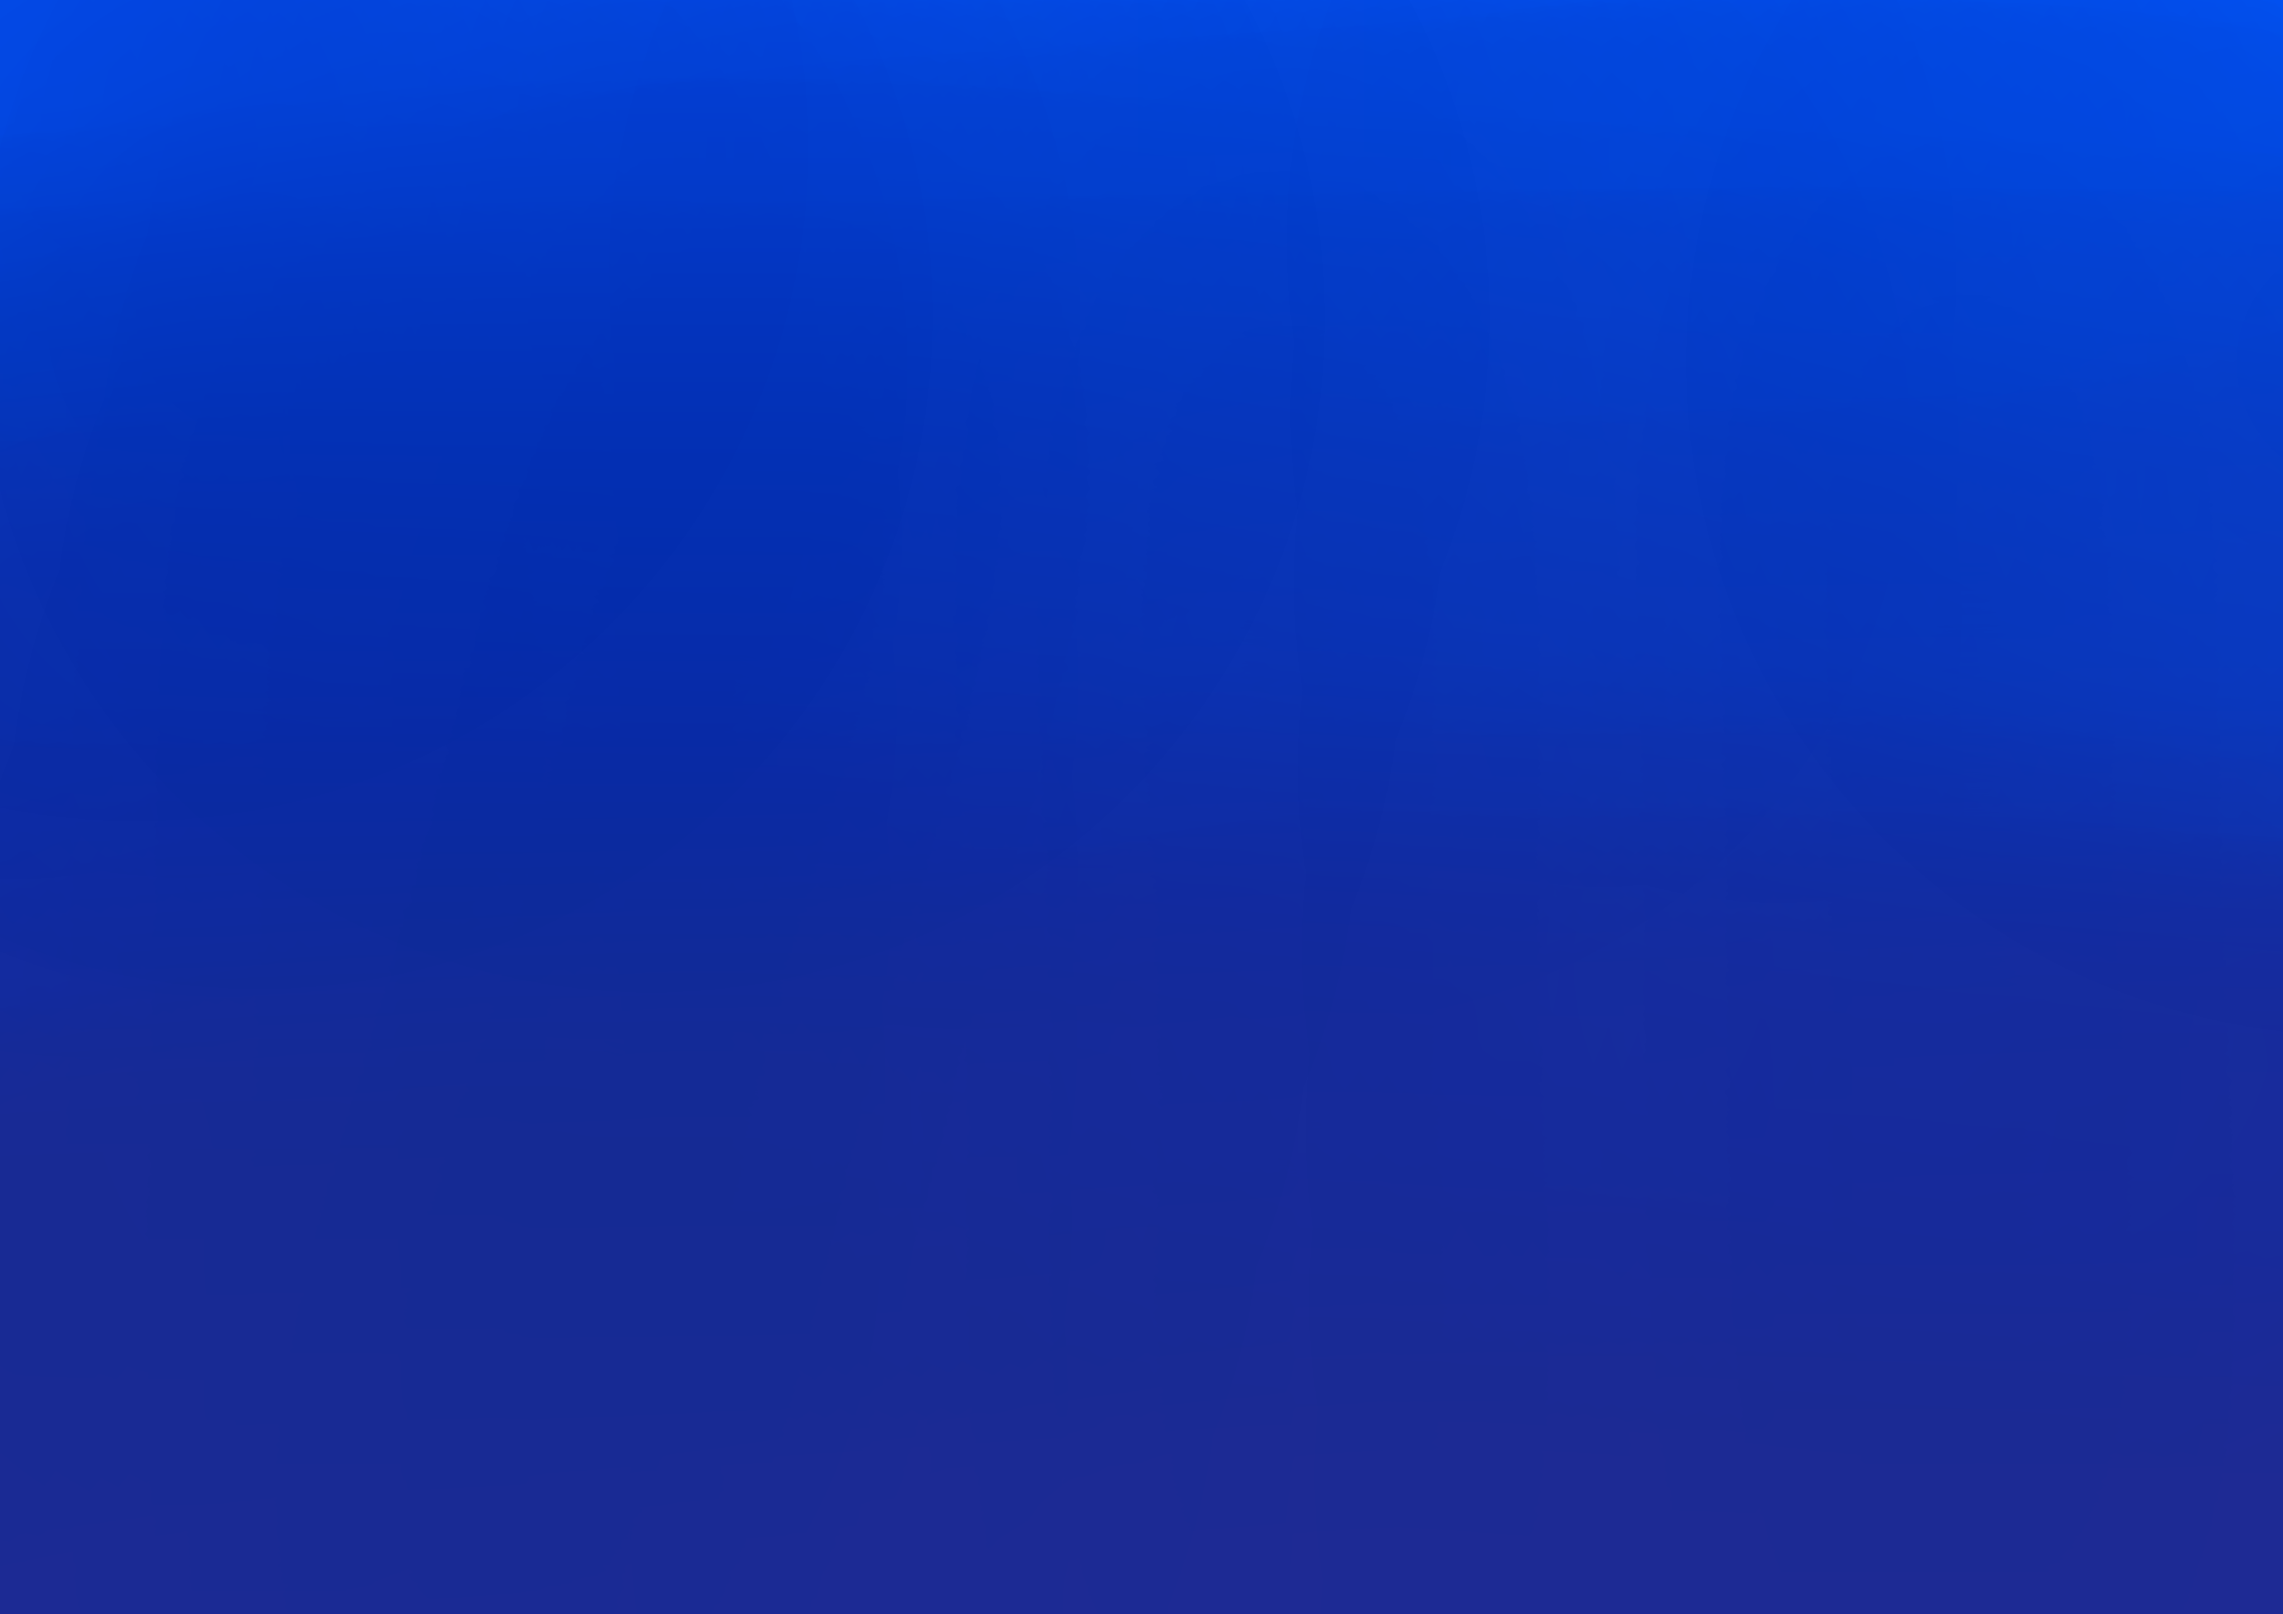
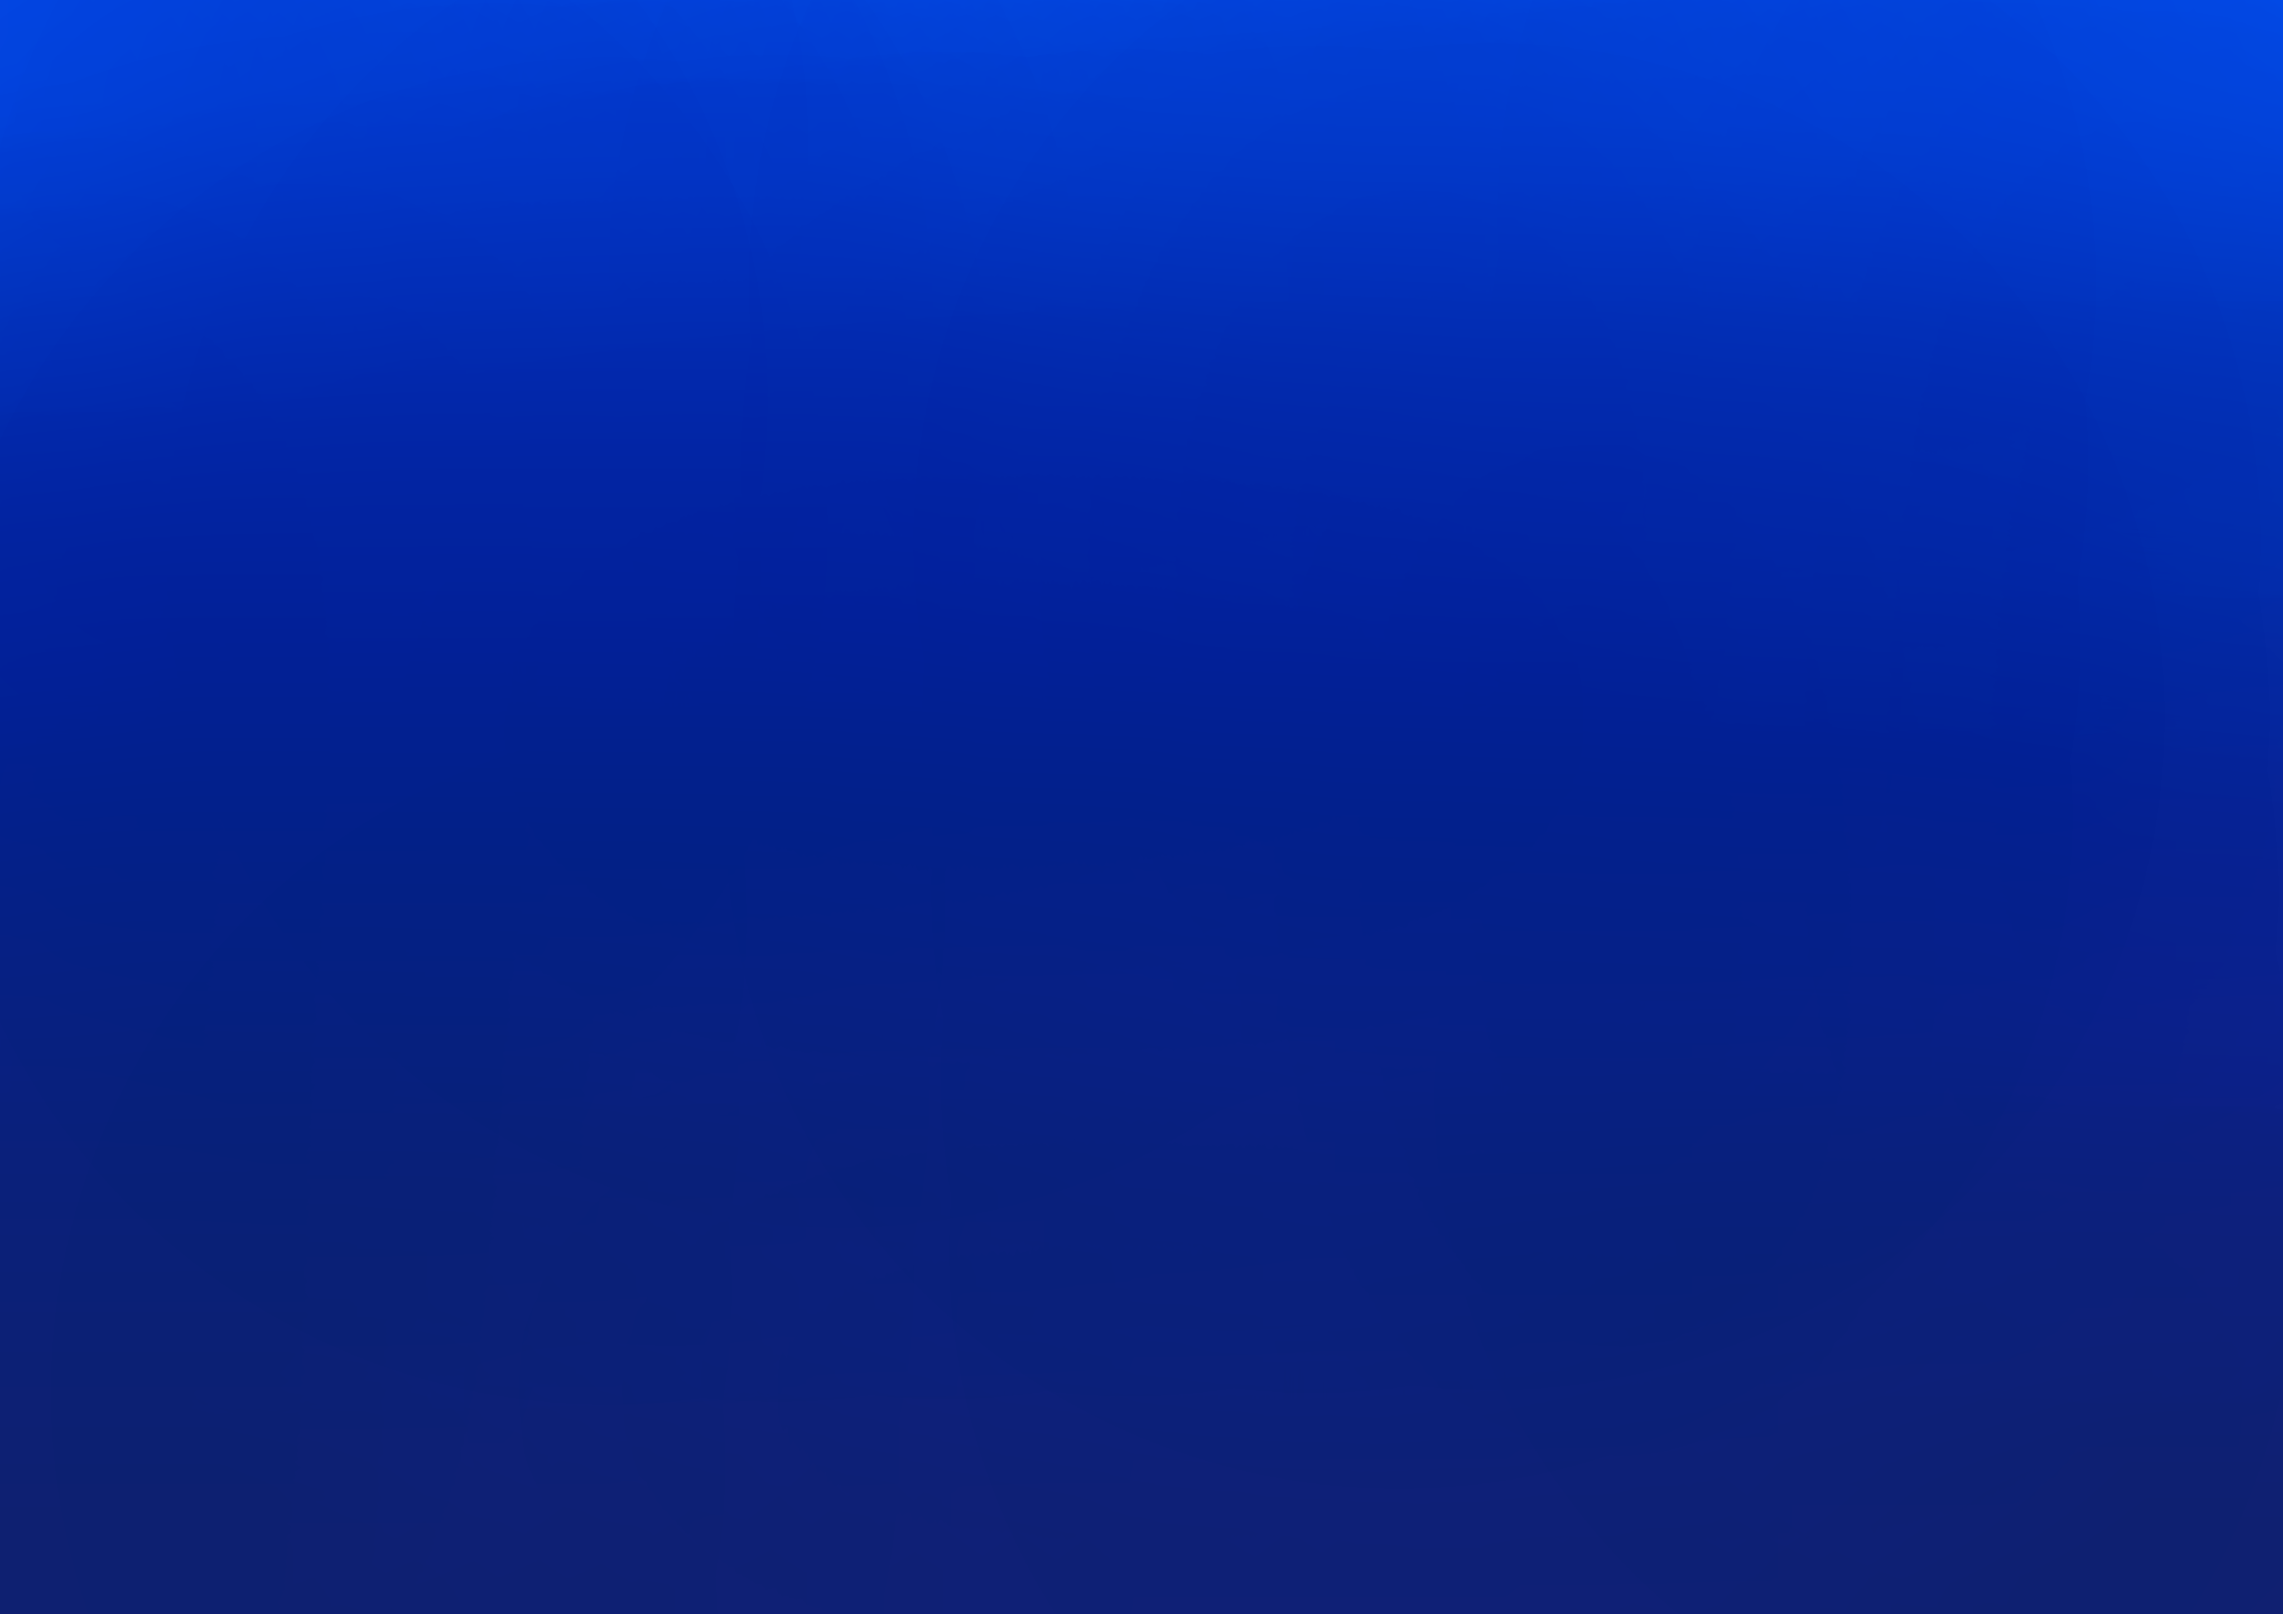
baggrund

diff --git a/Vagtplan/Client/Shared/MainLayout.razor.css b/Vagtplan/Client/Shared/MainLayout.razor.css
@@ -1,3 +1,9 @@
+.background-conatiner {
+    background-size: cover;
+    background-position: center;
+    height: 100vh;
+}
+
 .page {
     position: relative;
     display: flex;
@@ -8,9 +14,6 @@ main {
     flex: 1;
 }
 
-.sidebar {
-    background-image: linear-gradient(180deg, rgb(5, 39, 103) 0%, #3a0647 70%);
-}
 
 .top-row {
     background-color: #f7f7f7;

diff --git a/Vagtplan/Client/wwwroot/css/UI/Index.css b/Vagtplan/Client/wwwroot/css/UI/Index.css
@@ -1,5 +1,4 @@
 namespace Vagtplan.Client.wwwroot.css.UI
-
 body {
     height: 100px;
 }
@@ -11,7 +10,6 @@ body {
     align-items: center;
     padding-top: 0px;
     padding-bottom: 0px;
-    background-image href="logo": 50%;
 }
 
     .form-signin {

diff --git a/Vagtplan/Client/wwwroot/css/UI/Profil.css b/Vagtplan/Client/wwwroot/css/UI/Profil.css
@@ -1,5 +1,4 @@
 body {
-    background-color: #FFF4E3;
     margin: 0;
     padding: 0;
     font-family: Arial, sans-serif;
